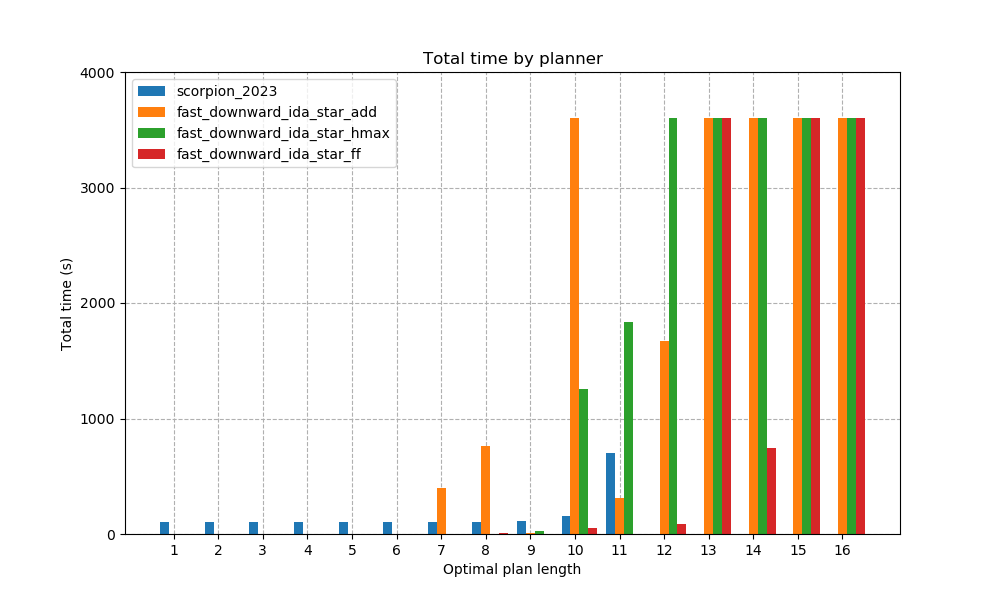
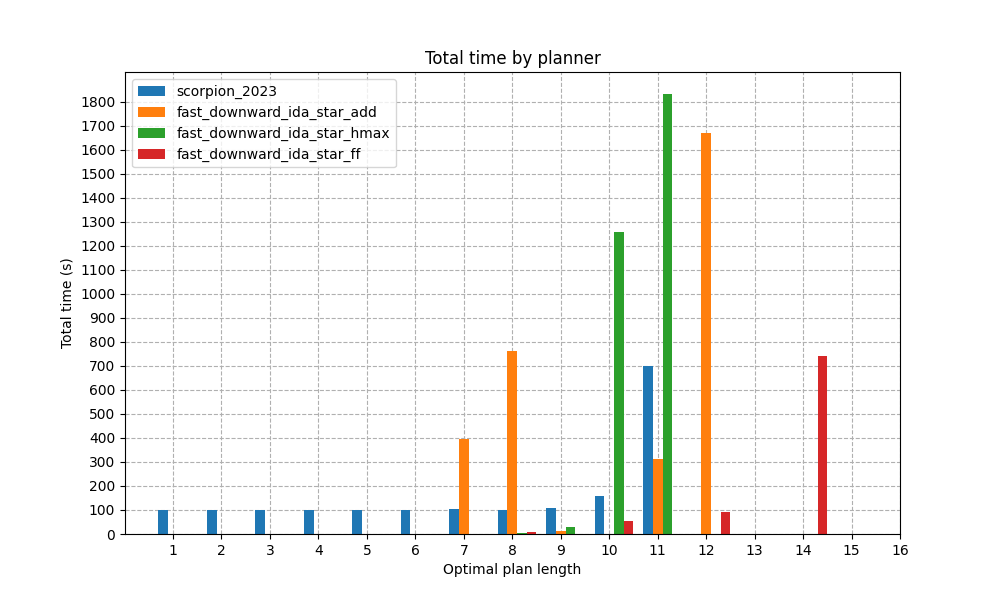
Add new plots

diff --git a/plot_results.py b/plot_results.py
@@ -88,7 +88,6 @@ def compute_plot_3(data_x: list, data_y: dict):
     # x-axis: optimal plan length, y-axis: total time.
     # Column chart, one column per planner for each problem. If search_exit_code is 23, set the time to the time limit.
     data_y_total_time = data_y["TOTAL_TIME"]
-    search_exit_code = data_y["SEARCH_EXIT_CODE"]
     # Set figure dimensions
     fig = plt.figure(figsize=(10, 6))  # Width = 10 inches, Height = 6 inches
     # create the plot
@@ -98,18 +97,14 @@ def compute_plot_3(data_x: list, data_y: dict):
     y_ticks = 0
     # create the plot
     for i, y in enumerate(data_y_total_time):
-        data_y_list = data_y_total_time[y].copy()
-        for j in range(len(data_y_list)):
-            if search_exit_code[y][j] == 23:
-                data_y_list[j] = 3600
-        y_ticks = max(y_ticks, max(data_y_list))
-        plt.bar([x + x_shift[i] for x in data_x], data_y_list, bar_width, label=labels[i])
+        y_ticks = max(y_ticks, max(data_y_total_time[y]))
+        plt.bar([x + x_shift[i] for x in data_x], data_y_total_time[y], bar_width, label=labels[i])
     # set labels
     plt.xlabel('Optimal plan length')
     plt.ylabel('Total time (s)')
     # set x-ticks to match categories
     plt.xticks(data_x)
-    plt.yticks(range(0, int(y_ticks+1000), 1000))
+    plt.yticks(range(0, int(y_ticks), 100))
     # set title
     plt.title('Total time by planner')
     # add background grid
@@ -120,7 +115,40 @@ def compute_plot_3(data_x: list, data_y: dict):
     plt.legend()
     # save the plot
     plt.savefig(PLOTS_PATH + "plot3.png")
-    
+
+def compute_plot_4(data_x: list, data_y: dict):
+        # plot 2
+    # x-axis: optimal plan length, y-axis: generated states
+    # Column chart, one column per planner for each problem.
+    data_y = data_y["GENERATED_STATES"]
+    # Set figure dimensions
+    fig = plt.figure(figsize=(10, 6))  # Width = 10 inches, Height = 6 inches
+    # create the plot
+    bar_width = 0.2
+    x_shift = [-bar_width, 0, bar_width, 2*bar_width]
+    labels = ["scorpion_2023", "fast_downward_ida_star_add", "fast_downward_ida_star_hmax", "fast_downward_ida_star_ff"]
+    y_ticks = 0
+    # create the plot
+    for i, y in enumerate(data_y):
+        y_ticks = max(y_ticks, max(data_y[y]))
+        plt.bar([x + x_shift[i] for x in data_x], data_y[y], bar_width, label=labels[i])
+    # set labels
+    plt.xlabel('Optimal plan length')
+    plt.ylabel('Generated states')
+    # set x-ticks to match categories
+    plt.xticks(data_x)
+    plt.yticks(range(0, int(y_ticks), 5000000))
+    # set title
+    plt.title('Generated states by planner')
+    # add background grid
+    plt.grid(axis='both', linestyle='--')
+    ax = plt.gca()
+    ax.set_axisbelow(True)
+    # add legend
+    plt.legend()
+    # save the plot
+    plt.savefig(PLOTS_PATH + "plot4.png", dpi=300)
+
 def extract_info(results: list):
     tmp_data_x = {}
     data_y = {}
@@ -128,6 +156,7 @@ def extract_info(results: list):
     data_y_plan_length = {}
     data_y_peak_memory = {}
     data_y_total_time = {}
+    data_y_generated_states = {}
     for i, result in enumerate(results):
         # extract the relevant info
         tmp_data_x[RESULT_FILES[i]] = result["RANDOM_MOVES"]
@@ -135,12 +164,14 @@ def extract_info(results: list):
         data_y_plan_length[RESULT_FILES[i]] = result["PLAN_LENGTH"]
         data_y_peak_memory[RESULT_FILES[i]] = result["PEAK_MEMORY"]
         data_y_total_time[RESULT_FILES[i]] = result["TOTAL_TIME"]
+        data_y_generated_states[RESULT_FILES[i]] = result["GENERATED_STATES"]
     # data_x is the same for all planners, so we can use the one with the most data
     data_x = tmp_data_x[max(tmp_data_x, key=lambda x: len(tmp_data_x[x]))]
     data_y["SEARCH_EXIT_CODE"] = data_y_search_exit_code
     data_y["PLAN_LENGTH"] = data_y_plan_length
     data_y["PEAK_MEMORY"] = data_y_peak_memory
     data_y["TOTAL_TIME"] = data_y_total_time
+    data_y["GENERATED_STATES"] = data_y_generated_states
     return data_x, data_y
 
 if __name__ == "__main__":
@@ -152,3 +183,4 @@ if __name__ == "__main__":
     #compute_plot_1(data_x, data_y)
     #compute_plot_2(data_x, data_y)
     compute_plot_3(data_x, data_y)
+    #compute_plot_4(data_x, data_y)
